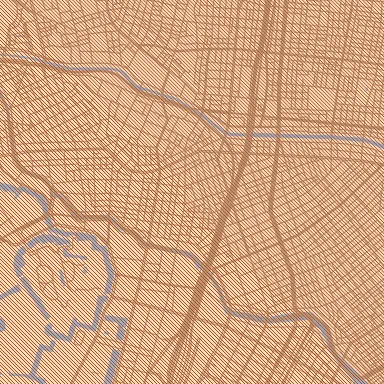
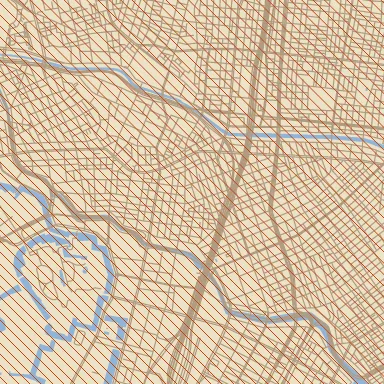
Read the geometry ops' pixel lengths as pixels
hatch, buffer, simplify, densify, resample and medial-axis passed their
pixel lengths straight to geometry that lives in feature-extent units,
so on a 512 px tile each came out an eighth of its stated size. Scale
them by extent / tile-size the way dash, wave and dot-density already
do, and rescale the pencil-sketch example and the catalog demos that
had been tuned against the old behaviour.

diff --git a/crates/ezu-paint/src/nodes/geometry/resample.rs b/crates/ezu-paint/src/nodes/geometry/resample.rs
@@ -30,18 +30,13 @@ enum Mode {
 }
 
 impl Mode {
-    fn apply_open(&self, pts: &[(i32, i32)]) -> Vec<(i32, i32)> {
+    /// `px` converts the mode's pixel lengths to feature-extent units, the
+    /// space the vertices live in.
+    fn apply(&self, pts: &[(i32, i32)], closed: bool, px: f64) -> Vec<(i32, i32)> {
         match *self {
-            Mode::Smooth { iterations } => smooth(pts, iterations, false),
-            Mode::Densify { target_px } => densify(pts, target_px, false),
-            Mode::Resample { spacing_px } => resample(pts, spacing_px, false),
-        }
-    }
-    fn apply_closed(&self, pts: &[(i32, i32)]) -> Vec<(i32, i32)> {
-        match *self {
-            Mode::Smooth { iterations } => smooth(pts, iterations, true),
-            Mode::Densify { target_px } => densify(pts, target_px, true),
-            Mode::Resample { spacing_px } => resample(pts, spacing_px, true),
+            Mode::Smooth { iterations } => smooth(pts, iterations, closed),
+            Mode::Densify { target_px } => densify(pts, target_px * px, closed),
+            Mode::Resample { spacing_px } => resample(pts, spacing_px * px, closed),
         }
     }
     fn tag(&self) -> &'static [u8] {
@@ -84,7 +79,7 @@ impl Node for ResampleNode {
     }
     fn eval(
         &self,
-        _ctx: &EvalCtx<'_>,
+        ctx: &EvalCtx<'_>,
         inputs: &[Option<PortValue>],
     ) -> Result<PortValue, EvalError> {
         let feats = downcast_features(
@@ -92,18 +87,26 @@ impl Node for ResampleNode {
                 .as_ref()
                 .ok_or_else(|| EvalError::MissingInput("features".into()))?,
         )?;
+        let px = feats.extent as f64 / ctx.canvas.tile_w.max(1) as f64;
         // Per group: adjust polyline / polygon-ring density (points pass
         // through), carrying properties.
         let mut out_groups = Vec::with_capacity(feats.groups.len());
         for g in &feats.groups {
-            let lines: Vec<Vec<(i32, i32)>> =
-                g.lines.iter().map(|l| self.mode.apply_open(l)).collect();
+            let lines: Vec<Vec<(i32, i32)>> = g
+                .lines
+                .iter()
+                .map(|l| self.mode.apply(l, false, px))
+                .collect();
             let polygons: Vec<Polygon> = g
                 .polygons
                 .iter()
                 .map(|p| Polygon {
-                    exterior: self.mode.apply_closed(&p.exterior),
-                    holes: p.holes.iter().map(|h| self.mode.apply_closed(h)).collect(),
+                    exterior: self.mode.apply(&p.exterior, true, px),
+                    holes: p
+                        .holes
+                        .iter()
+                        .map(|h| self.mode.apply(h, true, px))
+                        .collect(),
                 })
                 .collect();
             out_groups.push(FeatureGroup {

diff --git a/crates/ezu-paint/tests/paint/geometry_ops.rs b/crates/ezu-paint/tests/paint/geometry_ops.rs
@@ -174,3 +174,65 @@ fn triangulate_fills_the_convex_hull() {
         "centre of triangulated quad should be green-dominant: {centre:?}"
     );
 }
+
+/// `buffer`'s `distance` is in canvas pixels: a point inflated by 8 px
+/// on a 64 px tile is a disk 8 px in radius, not 8 extent units (1/8 px).
+#[test]
+fn buffer_distance_is_in_pixels() {
+    let json = r##"{
+      "name": "demo",
+      "tile-size": 64,
+      "nodes": {
+        "bg":   { "op": "solid", "color": "#ffffff" },
+        "pt":   { "op": "literal-geometry", "points": [[2048, 2048]] },
+        "disk": { "op": "buffer", "features": "@pt", "distance": 8, "join": "round" },
+        "fill": { "op": "fill-solid", "features": "@disk", "fill": "#000000" },
+        "out":  { "op": "blend", "base": "@bg", "over": "@fill" }
+      },
+      "output": "@out"
+    }"##;
+    let r = render(json, 64, 0);
+    let inside = r.pixel(32 + 6, 32);
+    assert!(
+        inside[0] < 40,
+        "6 px from the point is inside the disk: {inside:?}"
+    );
+    let outside = r.pixel(32 + 11, 32);
+    assert!(
+        outside[0] > 215,
+        "11 px from the point is outside it: {outside:?}"
+    );
+}
+
+/// `hatch`'s `spacing` is in canvas pixels: 16 px over a 64 px tile is
+/// four lines, whatever the feature extent.
+#[test]
+fn hatch_spacing_is_in_pixels() {
+    let json = r##"{
+      "name": "demo",
+      "tile-size": 64,
+      "nodes": {
+        "bg":    { "op": "solid", "color": "#ffffff" },
+        "area":  { "op": "tile-bounds" },
+        "lines": { "op": "hatch", "features": "@area", "spacing": 16 },
+        "draw":  { "op": "stroke", "features": "@lines", "color": "#000000", "width-px": 2 },
+        "out":   { "op": "blend", "base": "@bg", "over": "@draw" }
+      },
+      "output": "@out"
+    }"##;
+    let r = render(json, 64, 0);
+    // Count dark runs down the middle column: one per line.
+    let mut runs = 0;
+    let mut dark = false;
+    for y in 0..64 {
+        let d = r.pixel(32, y)[0] < 128;
+        if d && !dark {
+            runs += 1;
+        }
+        dark = d;
+    }
+    assert!(
+        (3..=5).contains(&runs),
+        "expected ~4 hatch lines, got {runs}"
+    );
+}

diff --git a/crates/ezu-paint/src/nodes/geometry/medial_axis.rs b/crates/ezu-paint/src/nodes/geometry/medial_axis.rs
@@ -49,15 +49,16 @@ impl Node for MedialAxisNode {
                 .as_ref()
                 .ok_or_else(|| EvalError::MissingInput("features".into()))?,
         )?;
-        let densify_px = self.densify_px.get(ctx, inputs)?;
-        let min_branch_px = self.min_branch_px.get(ctx, inputs)?;
+        let px = feats.extent as f64 / ctx.canvas.tile_w.max(1) as f64;
+        let densify = self.densify_px.get(ctx, inputs)? * px;
+        let min_branch = self.min_branch_px.get(ctx, inputs)? * px;
         // Per group: skeletonise each feature's polygons into polylines,
         // carrying properties.
         let mut out_groups = Vec::with_capacity(feats.groups.len());
         for g in &feats.groups {
             let mut lines = Vec::new();
             for polygon in &g.polygons {
-                lines.extend(medial_axis(polygon, densify_px, min_branch_px));
+                lines.extend(medial_axis(polygon, densify, min_branch));
             }
             out_groups.push(FeatureGroup {
                 properties: g.properties.clone(),

diff --git a/crates/ezu-paint/tests/paint/voronoi_ops.rs b/crates/ezu-paint/tests/paint/voronoi_ops.rs
@@ -98,7 +98,7 @@ fn medial_axis_of_long_rectangle_renders_a_line() {
         "rect":  { "op": "literal-geometry",
                    "polygons": [{ "exterior": [[200, 1800], [3800, 1800], [3800, 2200], [200, 2200]] }] },
         "axis":  { "op": "medial-axis", "features": "@rect",
-                   "densify-px": 100, "min-branch-px": 200 },
+                   "densify-px": 0.8, "min-branch-px": 1.6 },
         "draw":  { "op": "line", "features": "@axis",
                    "brush": "@b", "color": "#000000",
                    "radius-px": 2.0, "opacity": 1.0 },

diff --git a/crates/ezu-paint/src/nodes/geometry/simplify.rs b/crates/ezu-paint/src/nodes/geometry/simplify.rs
@@ -40,7 +40,8 @@ impl Node for SimplifyNode {
                 .as_ref()
                 .ok_or_else(|| EvalError::MissingInput("features".into()))?,
         )?;
-        let epsilon = self.epsilon.get(ctx, inputs)?;
+        let px = feats.extent as f64 / ctx.canvas.tile_w.max(1) as f64;
+        let epsilon = self.epsilon.get(ctx, inputs)? * px;
         // Per group: simplify each feature's lines and polygon rings (points
         // pass through), carrying properties.
         let mut out_groups = Vec::with_capacity(feats.groups.len());

diff --git a/crates/ezu-paint/src/nodes/geometry/hatch.rs b/crates/ezu-paint/src/nodes/geometry/hatch.rs
@@ -48,9 +48,10 @@ impl Node for HatchNode {
         // agree at the seam.
         let extent = feats.extent as f64;
         let origin = (ctx.tile.x as f64 * extent, ctx.tile.y as f64 * extent);
+        let px = extent / ctx.canvas.tile_w.max(1) as f64;
         let opts = HatchOpts {
             angle_deg: self.angle_deg.get(ctx, inputs)?,
-            spacing: self.spacing.get(ctx, inputs)?,
+            spacing: self.spacing.get(ctx, inputs)? * px,
             phase: self.phase.get(ctx, inputs)?,
             origin,
         };

diff --git a/crates/ezu-paint/src/nodes/geometry/buffer.rs b/crates/ezu-paint/src/nodes/geometry/buffer.rs
@@ -55,8 +55,9 @@ impl Node for BufferNode {
                 .as_ref()
                 .ok_or_else(|| EvalError::MissingInput("features".into()))?,
         )?;
+        let px = feats.extent as f64 / ctx.canvas.tile_w.max(1) as f64;
         let opts = BufferOpts {
-            distance: self.distance.get(ctx, inputs)?,
+            distance: self.distance.get(ctx, inputs)? * px,
             join: self.join,
         };
         // Per group: buffer each feature's geometry into polygons, carrying

diff --git a/CHANGELOG.md b/CHANGELOG.md
@@ -13,6 +13,15 @@ mean is spelled out in
 
 ### Fixed
 
+- Six geometry ops read their pixel lengths as feature-extent units, so on a
+  512 px tile every one of them came out an eighth of the size it asked for:
+  `hatch` `spacing`, `buffer` `distance`, `simplify` `epsilon`, `densify`
+  `target-px`, `resample` `spacing-px`, and `medial-axis` `densify-px` /
+  `min-branch-px`. They are canvas pixels now, as documented and as `dash`,
+  `wave` and `dot-density` already were. **A style that tuned these values by
+  eye against the old behaviour renders differently**: divide them by
+  `extent / tile-size` (8, for a 512 px tile at the default extent) to keep the
+  old look. The `pencil-sketch` example's `hatch-spacing` is rescaled this way.
 - The CLI wrote its log lines to stdout, where `ezu translate`, `ezu legend` and
   `ezu graph` write the document they produce. A single warning was enough to
   corrupt a redirected recipe — `ezu translate style.json > recipe.json` left a
